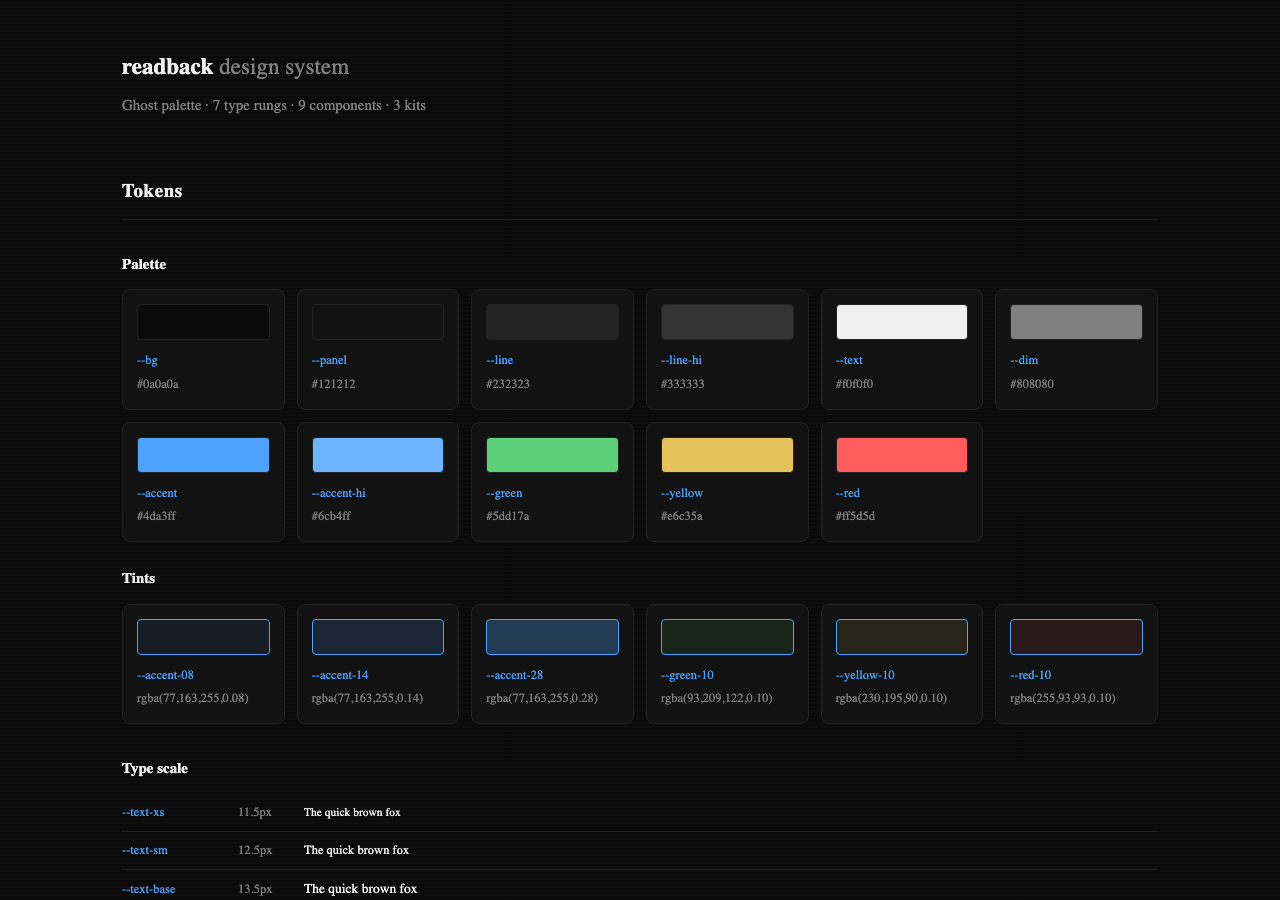
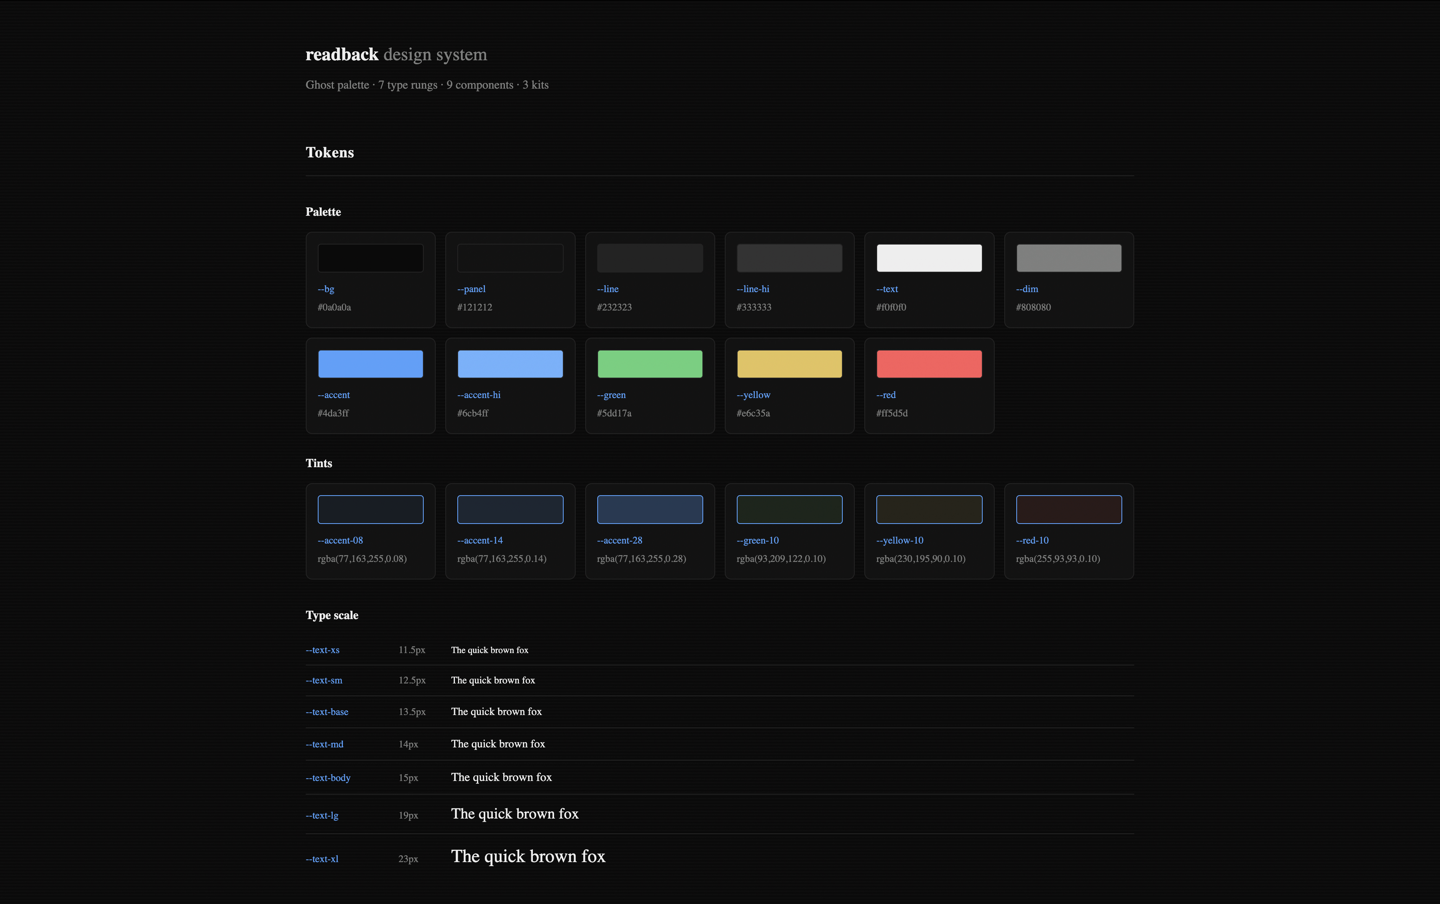
docs: refresh design system screenshots — two full-page captures

diff --git a/README.md b/README.md
@@ -266,8 +266,13 @@ Dashboard is live at `http://<PI_HOST>:8090`.
 The Ghost palette, type scale, and every UI component — documented as live specimens you can browse locally.
 
 <p align="center">
-  <img src="docs/media/design-system.png" alt="readback design system — token swatches, type scale, and component specimens" width="720"><br>
-  <sub>Color tokens, tints, type scale, spacing, and motion — the foundation every surface is built on.</sub>
+  <img src="docs/media/design-system.png" alt="readback design system — Ghost palette, tints, type scale" width="720"><br>
+  <sub>Ghost palette, tints, type scale, spacing, and motion tokens — the foundation every surface is built on.</sub>
+</p>
+
+<p align="center">
+  <img src="docs/media/design-system-components.png" alt="readback design system — component specimens and UI kits" width="720"><br>
+  <sub>Component specimens (Badge, Button, SeekBar, WaveformPlayer, ReadCard…) and interactive UI Kits.</sub>
 </p>
 
 **7 type rungs** · **9 components** (Badge, Button, PromptLine, SearchInput, SeekBar, WaveformPlayer, ReadCard, Wordmark, SectionHeader) · **3 UI kits** (Terminal, Dashboard, Landing) — all interactive.
